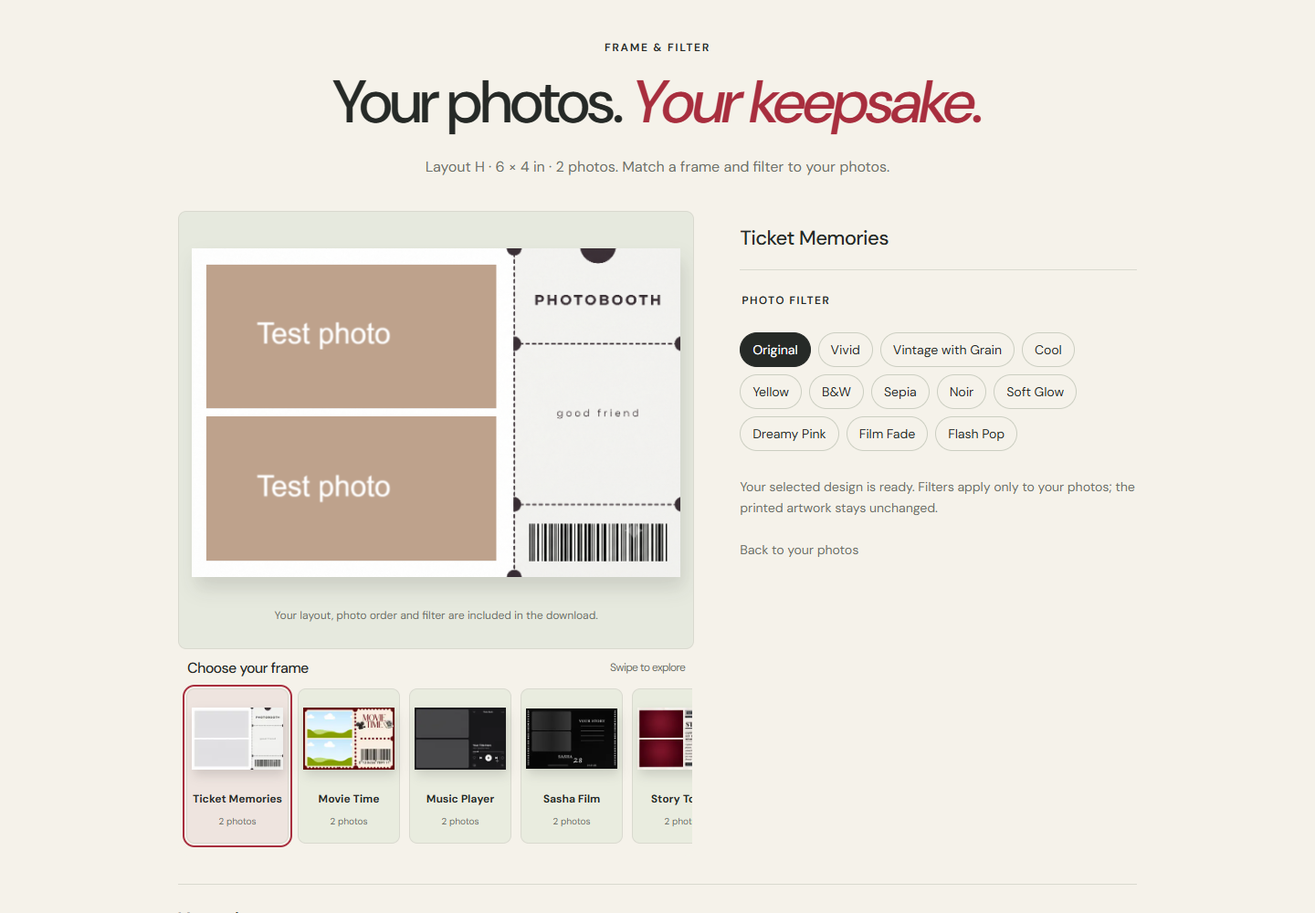
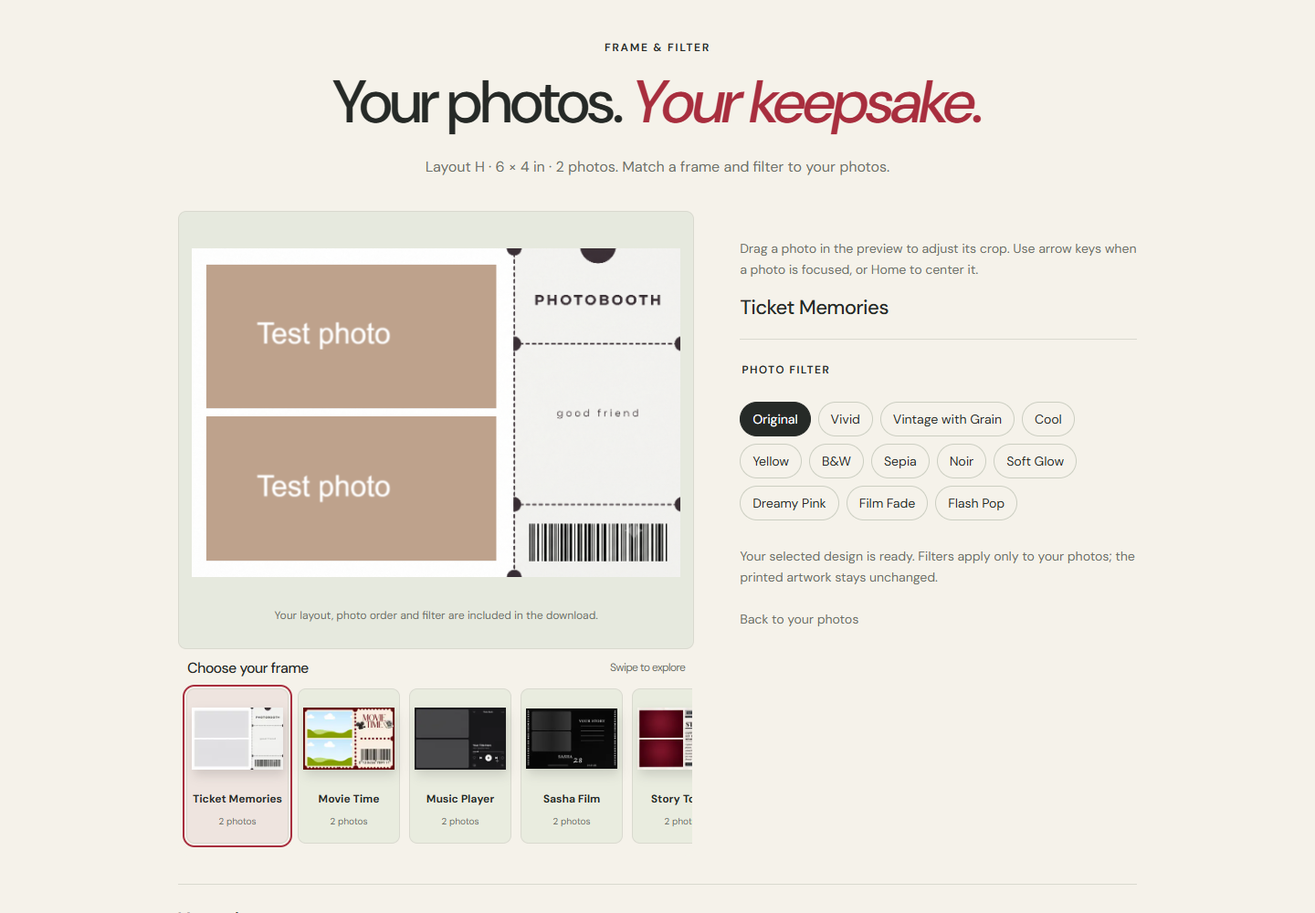
drag the photos feature

Changed region(s): [[0.5625, 0.248, 0.8438, 0.558], [0.5625, 0.589, 0.8438, 0.682]]

diff --git a/website/src/booth/Booth.tsx b/website/src/booth/Booth.tsx
@@ -23,6 +23,7 @@ import type { DuoEvent } from './useDuoPeer';
 import { useSessionCharge } from './useSessionCharge';
 import './journey.css';
 import { prefetchFrames } from './frameAssets';
+import { reconcileOffsets } from './photoPosition.js';
 
 const progress: [Step, string][] = [['mode', 'Solo or duo'], ['source', 'Photo source'], ['layout', 'Your layout'], ['session', 'Your photos'], ['design', 'Frame & filter'], ['export', 'Export & download']];
 
@@ -71,7 +72,7 @@ export function Booth({ active, invite, leaveGuard }: { active: boolean; invite:
   function clearPhotos() {
     editingGate.current?.cancel(); setConfirmation({open:false,busy:false,error:''}); setEditingApproved(false);
     charge.reset();
-    setCard(current => ({ ...current, shots: [] }));
+    setCard(current => ({ ...current, shots: [], offsets: [] }));
     setDuoUploads([]);
     setRetake(null); setRestoreCamera(false);
     document.getElementById('print-sheet')?.replaceChildren();
@@ -104,7 +105,7 @@ export function Booth({ active, invite, leaveGuard }: { active: boolean; invite:
   useEffect(() => { if (active) { setUseInvite(true); setStep(invite ? 'join' : 'mode'); if (invite) setMode('duo'); setRetake(null); setRestoreCamera(false); setInstructions(!invite); } else { setInstructions(false); party.end(); } }, [active, invite]);
   // A missed heartbeat must not unmount the camera or silently send one user back.
   useEffect(() => { if (active && !instructions) { screen.current?.querySelector('h1')?.focus({ preventScroll: true }); window.scrollTo(0, 0); } }, [step, active, instructions]);
-  const change = (patch: Partial<CardState>) => setCard(current => ({ ...current, ...patch }));
+  const change = (patch: Partial<CardState>) => setCard(current => ({ ...current, ...patch, ...(patch.shots ? { offsets: reconcileOffsets(current.shots, current.offsets, patch.shots) } : {}) }));
   async function reviewUploads(shots = card.shots) {
     if (await requestEditing()) { change({ shots }); setEditingApproved(true); setRetake(null); setStep('design'); }
   }
@@ -113,7 +114,7 @@ export function Booth({ active, invite, leaveGuard }: { active: boolean; invite:
       const count = layouts[card.layout].count;
       setDuoUploads(current => [...move(current.slice(0, count), from, to), ...move(current.slice(count), from, to)]);
     }
-    const apply = () => { setCard(current => ({ ...current, shots: move(current.shots, from, to) })); setRetake(null); };
+    const apply = () => { setCard(current => { const shots = move(current.shots, from, to); const offsets = move(current.shots.map((_, i) => current.offsets?.[i] || { x: .5, y: .5 }), from, to); return { ...current, shots, offsets }; }); setRetake(null); };
     if (party.room?.role === 'host' && source === 'camera') {
       void duoControl.current?.({ type: 'move', from, to }).then(apply).catch(() => setSharedError('Reconnect your cameras before changing the shared photo order.'));
     } else apply();
@@ -137,6 +138,15 @@ export function Booth({ active, invite, leaveGuard }: { active: boolean; invite:
     const joined = await party.join(code, useInvite ? invite : null);
     if (joined) { change({ layout: joined.settings.layout, template: null, shots: [] }); setSource(joined.settings.source); setMode('duo'); setStep('room'); }
   }
+  useEffect(() => {
+    if (!active || !invite) return;
+    let cancelled = false;
+    const timer = window.setTimeout(async () => {
+      const joined = await party.join('', invite);
+      if (joined && !cancelled) { change({ layout: joined.settings.layout, template: null, shots: [] }); setSource(joined.settings.source); setMode('duo'); setStep('room'); }
+    }, 0);
+    return () => { cancelled = true; window.clearTimeout(timer); };
+  }, [active, invite]);
   async function enterParty() {
     const state = await party.check();
     if (state?.bothReady) {
@@ -166,7 +176,7 @@ export function Booth({ active, invite, leaveGuard }: { active: boolean; invite:
         {active && step === 'layout' && <><LayoutScreen busy={party.busy || charge.busy} selected={card.layout} onSelect={layout => { if (layout !== card.layout) change({ layout, shots: [], template: null }); setRetake(null); }} onBack={() => setStep(mode === 'duo' && source === 'camera' ? 'duo' : 'source')} onNext={() => void startSession()} /><p className="room-error" role="alert">{party.error}</p></>}
         {active && step === 'source' && <SourceScreen mode={mode} onBack={() => setStep('mode')} onChoose={choice => { change({ shots: [], template: null }); setSource(choice); setRetake(null); setStep(mode === 'duo' && choice === 'camera' ? 'duo' : 'layout'); }} />}
         {active && (step === 'session' || ['design','export'].includes(step) && party.room && source === 'camera') && <div hidden={step !== 'session'}><SessionScreen room={party.room} visible={step === 'session'} duoControl={duoControl} onPartnerConnection={setPeerConnected} onPartnerExit={() => setExplicitDisconnect(true)} onSharedPhotos={shots => change({ shots })} onRemoteSession={index => { setRetake(index); setStep('session'); }} card={card} method={method} seconds={seconds} onMethod={setMethod} onSeconds={setSeconds} retake={retake} onRetake={setRetake} restoreCamera={restoreCamera} interrupted={instructions || !!pendingLeave || confirmation.open || disconnectOpen} flash={flash} flashColor={flashColor} onFlashChange={setFlash} onFlashColor={setFlashColor} mirror={mirror} onMirrorChange={setMirror}
-          beforeReview={requestEditing} onShot={(index, shot) => setCard(current => ({ ...current, shots: replaceShot(current.shots, index, shot) }))} onMove={reorder} onBack={() => goBack('layout')} onNext={wasCamera => { setRestoreCamera(wasCamera); setRetake(null); setEditingApproved(true); setStep('design'); }} /></div>}
+          beforeReview={requestEditing} onShot={(index, shot) => setCard(current => ({ ...current, shots: replaceShot(current.shots, index, shot), offsets: reconcileOffsets(current.shots, current.offsets, replaceShot(current.shots, index, shot)) }))} onMove={reorder} onBack={() => goBack('layout')} onNext={wasCamera => { setRestoreCamera(wasCamera); setRetake(null); setEditingApproved(true); setStep('design'); }} /></div>}
         {active && step === 'upload' && mode === 'solo' && <UploadScreen card={card} replacement={retake} onPhotos={shots => { change({ shots }); setRetake(null); }} onMove={reorder} onBack={() => goBack('layout')} onNext={() => void reviewUploads()} />}
         {active && step === 'upload' && mode === 'duo' && <DuoUploadScreen card={card} photos={duoUploads} onPhotos={setDuoUploads} onBack={() => goBack('layout')} onNext={shots => void reviewUploads(shots)} />}
         {active && editingApproved && (step === 'design' || step === 'export') && <><EditScreen stage={step} onContinue={() => setStep('export')} photosLocked={party.room?.role === 'guest' && source === 'camera'} source={source} card={card} onChange={change} onMove={reorder} onRetake={index => { void retakeFromEdit(index); }} onBack={() => void retakeFromEdit(null)} onDesign={() => setStep('design')} /><p className="room-error" role="alert">{sharedError}</p></>}

diff --git a/website/src/booth/EditScreen.tsx b/website/src/booth/EditScreen.tsx
@@ -8,6 +8,7 @@ import { Heading } from './shared';
 import type { CardState } from './types';
 import { DesignScreen } from './DesignScreen';
 import { musicTitles } from './musicTitle.js';
+import { PhotoPan } from './PhotoPan';
 
 interface Props {
   photosLocked?: boolean;
@@ -19,6 +20,7 @@ interface Props {
 }
 export function EditScreen({ card, onChange, onMove, onRetake, onBack, onDesign, onContinue, stage, source = 'camera', photosLocked = false }: Props) {
   const [preview, setPreview] = useState('');
+  const [renderedFrame,setRenderedFrame] = useState('');
   const [previewStatus, setPreviewStatus] = useState('Preparing your photocard…');
   const [previewError, setPreviewError] = useState(false), [retry, setRetry] = useState(0);
   const [format, setFormat] = useState('png'), [status, setStatus] = useState('');
@@ -39,9 +41,9 @@ export function EditScreen({ card, onChange, onMove, onRetake, onBack, onDesign,
     const timer = window.setTimeout(async () => {
       try {
         const canvas = await renderCard({ ...card, preview: true });
-        if (!cancelled) { setPreview(canvas.toDataURL('image/png')); setPreviewStatus('Your layout, photo order and filter are included in the download.'); }
+        if (!cancelled) { setPreview(canvas.toDataURL('image/png')); setRenderedFrame(`${card.layout}:${card.template}`); setPreviewStatus('Your layout, photo order and filter are included in the download.'); }
       } catch { if (!cancelled) { setPreviewError(true); setPreviewStatus('This frame couldn’t load. Retry or choose another frame.'); } }
-    }, 30);
+    }, 0);
     return () => { cancelled = true; clearTimeout(timer); };
   }, [card, retry]);
 
@@ -71,13 +73,13 @@ export function EditScreen({ card, onChange, onMove, onRetake, onBack, onDesign,
     finally { exportLock.current = false; if (alive.current) setExporting(false); }
   }
   return <><Heading eyebrow={stage === 'design' ? 'FRAME & FILTER' : 'YOUR FINISHED MOMENTS'} title={<>Your photos. <em>Your keepsake.</em></>} note={`${layout.name} · ${layout.note}. ${stage === 'design' ? 'Match a frame and filter to your photos.' : 'Ready to download or print.'}`} />
-    <div className={`finish-grid ${stage === 'export' ? 'export-preview-grid' : 'customization-grid'}`}><div className="preview-workspace"><div className="final-preview">{preview ? <img id="card-preview" src={preview} alt="Your photocard preview" /> : <span className="preview-placeholder">Preparing your photos…</span>}<p id="preview-status" role="status">{previewStatus}</p>{previewError && <button className="text-button" onClick={() => setRetry(value => value + 1)}>Retry frame</button>}</div>
+    <div className={`finish-grid ${stage === 'export' ? 'export-preview-grid' : 'customization-grid'}`}><div className="preview-workspace"><div className="final-preview">{preview ? <div className="pan-surface"><img id="card-preview" src={preview} alt="Your photocard preview" draggable={false} />{stage === 'design' && renderedFrame === `${card.layout}:${card.template}` && <PhotoPan card={card} onChange={onChange} />}</div> : <span className="preview-placeholder">Preparing your photos…</span>}<p id="preview-status" role="status">{previewStatus}</p>{previewError && <button className="text-button" onClick={() => setRetry(value => value + 1)}>Retry frame</button>}</div>
     {stage === 'design' && <section className="editing-designs" aria-label="Frame selection"><h2>Choose your frame <small>Swipe to explore</small></h2><DesignScreen embedded card={card} onSelect={template => onChange({template})} onBack={onBack} onNext={onContinue} /></section>}</div>
-      <div className="finish-controls" hidden={stage === 'export'}><div className="chosen-design-note"><strong>{card.template ? cardDesigns[card.template].name : 'Classic'}</strong></div>
+      <div className="finish-controls" hidden={stage === 'export'}><p className="session-note">Drag a photo in the preview to adjust its crop. Use arrow keys when a photo is focused, or Home to center it.</p><div className="chosen-design-note"><strong>{card.template ? cardDesigns[card.template].name : 'Classic'}</strong></div>
         {!card.template && <fieldset disabled={exporting}><legend>FRAME COLOR</legend><div className="swatches">{Object.entries(colors).map(([key, color]) => <button key={key} className={`swatch ${card.color === key ? 'active' : ''}`} aria-label={key} aria-pressed={card.color === key} style={{ '--swatch': color[0] } as CSSProperties} onClick={() => onChange({ color: key })} />)}</div></fieldset>}
         <fieldset disabled={exporting}><legend>PHOTO FILTER</legend><div className="filter-options">{Object.entries(filters).map(([key, name]) => <button key={key} className={`filter ${card.filter === key ? 'active' : ''}`} aria-pressed={card.filter === key} onClick={() => onChange({ filter: key })}>{name}</button>)}</div></fieldset>
         {!card.template && <><label className="caption-label" htmlFor="card-caption">A FEW WORDS TO KEEP</label><input id="card-caption" maxLength={28} value={card.caption} disabled={exporting} onChange={e => onChange({ caption: e.target.value })} /></>}
-        {card.template && card.template in musicTitles && <><label className="caption-label" htmlFor="track-title">SONG / TRACK TITLE</label><input id="track-title" maxLength={60} placeholder="Our little moment" value={card.trackTitle || ''} disabled={exporting} onChange={e => onChange({ trackTitle: e.target.value })} /><p className="session-note">Up to 60 characters. The title fits automatically.</p></>}
+        {card.template && card.template in musicTitles && <><label className="caption-label" htmlFor="track-title">SONG / TRACK TITLE</label><input id="track-title" maxLength={60} placeholder="Our little moment" value={card.trackTitle || ''} disabled={exporting} onChange={e => onChange({ trackTitle: e.target.value })} /><label className="caption-label" htmlFor="track-subtitle">ARTIST / SUBTITLE</label><input id="track-subtitle" maxLength={60} placeholder="Together" value={card.trackSubtitle || ''} disabled={exporting} onChange={e => onChange({ trackSubtitle: e.target.value })} /><p className="session-note">Up to 60 characters each. Text fits automatically.</p></>}
         <p className="session-note">{card.template ? 'Your selected design is ready. Filters apply only to your photos; the printed artwork stays unchanged.' : 'Filters apply to the photos. Your original captures stay unchanged.'}</p><button className="text-button" disabled={exporting || photosLocked} onClick={onBack}>Back to your photos</button>
       </div>
     </div>{stage === 'design' && <>{photosLocked && <p className="session-note">Your creator can reorder or retake your shared photos. You can choose your own frame and filter.</p>}<PhotoTray actionLabel={source === 'upload' ? 'Replace' : 'Retake'} shots={card.shots} count={layout.count} retake={null} disabled={exporting || photosLocked} onMove={onMove} onRetake={onRetake} /><div className="step-actions"><button className="primary" onClick={onContinue}>Continue to export</button></div></>}

diff --git a/website/src/booth/renderCard.js b/website/src/booth/renderCard.js
@@ -2,8 +2,9 @@ import { layouts,filterPixels } from './core.js';
 import { cardDesigns,colors } from './designs.ts';
 import { loadFrame } from './frameAssets.ts';
 import { drawMusicTitle, musicTitles } from './musicTitle.js';
+import { coverCrop } from './photoPosition.js';
   const loadImage=src=>new Promise((resolve,reject)=>{const img=new Image();img.onload=()=>resolve(img);img.onerror=reject;img.src=src});
-  function cover(ctx,img,x,y,w,h){const iw=img.videoWidth||img.naturalWidth,ih=img.videoHeight||img.naturalHeight;const scale=Math.max(w/iw,h/ih);ctx.drawImage(img,(iw-w/scale)/2,(ih-h/scale)/2,w/scale,h/scale,x,y,w,h)}
+  function cover(ctx,img,x,y,w,h,offset){const crop=coverCrop(img.videoWidth||img.naturalWidth,img.videoHeight||img.naturalHeight,w,h,offset);ctx.drawImage(img,crop.x,crop.y,crop.w,crop.h,x,y,w,h)}
   export function cardDimensions(state) {
     const l = layouts[state.layout], d = state.template && cardDesigns[state.template];
     if (!d) return { width: l.width, height: l.height };
@@ -16,16 +17,16 @@ import { drawMusicTitle, musicTitles } from './musicTitle.js';
     const [cx,cy,cw,ch]=d.crop,scale=cardDimensions(snapshot).width/cw,ox=0,oy=0;
     const canvas=document.createElement('canvas');canvas.width=cardDimensions(snapshot).width;canvas.height=cardDimensions(snapshot).height;const ctx=canvas.getContext('2d');
     ctx.fillStyle='#fff';ctx.fillRect(0,0,canvas.width,canvas.height);ctx.drawImage(art,cx,cy,cw,ch,0,0,canvas.width,canvas.height);
-    images.forEach((img,i)=>{if(!img)return;const r=d.slots[i],w=Math.round(r.w*scale),h=Math.round(r.h*scale),photo=document.createElement('canvas');photo.width=w;photo.height=h;const pc=photo.getContext('2d',{willReadFrequently:true});cover(pc,img,0,0,w,h);
+    images.forEach((img,i)=>{if(!img)return;const r=d.slots[i],w=Math.round(r.w*scale),h=Math.round(r.h*scale),photo=document.createElement('canvas');photo.width=w;photo.height=h;const pc=photo.getContext('2d',{willReadFrequently:true});cover(pc,img,0,0,w,h,snapshot.offsets?.[i]);
       if(snapshot.filter!=='original'){const pixels=pc.getImageData(0,0,w,h);filterPixels(pixels.data,snapshot.filter,17+i);pc.putImageData(pixels,0,0)}
       if(d.mask==='cream'){const mask=document.createElement('canvas');mask.width=w;mask.height=h;const mc=mask.getContext('2d',{willReadFrequently:true});mc.drawImage(art,r.x,r.y,r.w,r.h,0,0,w,h);const mp=mc.getImageData(0,0,w,h);for(let p=0;p<mp.data.length;p+=4)mp.data[p+3]=(mp.data[p]>215&&mp.data[p+1]>205&&mp.data[p+2]>175)?255:0;mc.putImageData(mp,0,0);pc.globalCompositeOperation='destination-in';pc.drawImage(mask,0,0)}
       const x=ox+(r.x-cx)*scale,y=oy+(r.y-cy)*scale;ctx.save();if(r.rotation){const [angle,rx,ry]=r.rotation;const tx=(rx-cx)*scale,ty=(ry-cy)*scale;ctx.translate(tx,ty);ctx.rotate(angle*Math.PI/180);ctx.translate(-tx,-ty)}ctx.beginPath();if(r.poly){r.poly.forEach(([px,py],n)=>{const dx=ox+(px-cx)*scale,dy=oy+(py-cy)*scale;n?ctx.lineTo(dx,dy):ctx.moveTo(dx,dy)});ctx.closePath()}else ctx.roundRect(x,y,w,h,(r.r||0)*scale);ctx.clip();ctx.drawImage(photo,x,y,w,h);ctx.restore();
     });
-    if(musicTitles[snapshot.template]) { await document.fonts.ready; drawMusicTitle(ctx,art,d,snapshot.template,snapshot.trackTitle,scale); }
+    if(musicTitles[snapshot.template]) { await document.fonts.ready; drawMusicTitle(ctx,art,d,snapshot.template,snapshot.trackTitle,scale,snapshot.trackSubtitle); }
     return canvas;
   }
   async function renderCard(state){if(state.template)return renderDesignedCard(state);const snapshot={...state,shots:[...state.shots]},l=layouts[snapshot.layout],canvas=document.createElement('canvas');canvas.width=l.width;canvas.height=l.height;const ctx=canvas.getContext('2d'),[bg,fg]=colors[snapshot.color];const images=await Promise.all(snapshot.shots.map(loadImage));await document.fonts.ready;ctx.fillStyle=bg;ctx.fillRect(0,0,l.width,l.height);
-    images.forEach((img,i)=>{const r=l.slots[i],x=Math.round(r.x*l.width),y=Math.round(r.y*l.height),w=Math.round(r.w*l.width),h=Math.round(r.h*l.height);const photo=document.createElement('canvas');photo.width=w;photo.height=h;const pc=photo.getContext('2d',{willReadFrequently:true});cover(pc,img,0,0,w,h);if(snapshot.filter!=='original'){const pixels=pc.getImageData(0,0,w,h);filterPixels(pixels.data,snapshot.filter,17+i);pc.putImageData(pixels,0,0)}ctx.drawImage(photo,x,y);if(snapshot.design==='outline'){ctx.strokeStyle=fg;ctx.lineWidth=2;ctx.strokeRect(x+5,y+5,w-10,h-10)}});
+    images.forEach((img,i)=>{const r=l.slots[i],x=Math.round(r.x*l.width),y=Math.round(r.y*l.height),w=Math.round(r.w*l.width),h=Math.round(r.h*l.height);const photo=document.createElement('canvas');photo.width=w;photo.height=h;const pc=photo.getContext('2d',{willReadFrequently:true});cover(pc,img,0,0,w,h,snapshot.offsets?.[i]);if(snapshot.filter!=='original'){const pixels=pc.getImageData(0,0,w,h);filterPixels(pixels.data,snapshot.filter,17+i);pc.putImageData(pixels,0,0)}ctx.drawImage(photo,x,y);if(snapshot.design==='outline'){ctx.strokeStyle=fg;ctx.lineWidth=2;ctx.strokeRect(x+5,y+5,w-10,h-10)}});
     const a=l.caption,cx=(a.x+a.w/2)*l.width,cy=(a.y+a.h/2)*l.height,available=a.w*l.width-18;ctx.fillStyle=fg;ctx.textAlign='center';let size=Math.min(66,a.h*l.height*.33);ctx.font=`italic ${size}px "DM Sans", sans-serif`;while(ctx.measureText(snapshot.caption).width>available&&size>12){ctx.font=`italic ${--size}px "DM Sans", sans-serif`}ctx.fillText(snapshot.caption,cx,cy+size*.12);if(a.h*l.height>130){ctx.font=`500 ${Math.min(20,a.w*l.width/23)}px "DM Sans", sans-serif`;ctx.fillText('T O G E T H E R',cx,cy+size*.9+16)}if(snapshot.design==='hearts'){ctx.font=`${Math.min(30,a.h*l.height*.18)}px "DM Sans", sans-serif`;ctx.fillText('♡',cx,cy-size*.7)}return canvas;
   }
 

diff --git a/website/src/booth/PhotoPan.tsx b/website/src/booth/PhotoPan.tsx
@@ -1,0 +1,40 @@
+import { useEffect, useRef, useState } from 'react';
+import type { PointerEvent } from 'react';
+import type { CardState } from './types';
+import { cardDesigns } from './designs';
+import type { CardDesign } from './designs';
+import { layouts } from './core';
+import { panOffset, clampOffset } from './photoPosition.js';
+
+export function PhotoPan({card,onChange}:{card:CardState;onChange:(patch:Partial<CardState>)=>void}) {
+  const [sizes,setSizes]=useState<{w:number;h:number}[]>([]);
+  const drag=useRef<{id:number;index:number;x:number;y:number;offset:{x:number;y:number};matrix:DOMMatrix}|null>(null);
+  const design=card.template ? cardDesigns[card.template] : null, layout=layouts[card.layout];
+  const [cx,cy,w,h]=design?.crop || [0,0,layout.width,layout.height];
+  const slots: CardDesign['slots']=design?.slots || layout.slots.map(r=>({x:r.x*w,y:r.y*h,w:r.w*w,h:r.h*h,r:0}));
+  useEffect(()=>{let cancelled=false;setSizes([]);drag.current=null;Promise.all(card.shots.map(src=>new Promise<{w:number;h:number}>(resolve=>{const img=new Image();img.onload=()=>resolve({w:img.naturalWidth,h:img.naturalHeight});img.onerror=()=>resolve({w:0,h:0});img.src=src;}))).then(result=>{if(!cancelled)setSizes(result);});return()=>{cancelled=true;};},[card.shots]);
+  useEffect(()=>{drag.current=null;},[card.template]);
+  function update(index:number,offset:{x:number;y:number}) {const offsets=card.shots.map((_,i)=>card.offsets?.[i]||{x:.5,y:.5});offsets[index]=offset;onChange({offsets});}
+  function start(e:PointerEvent<SVGPathElement>,index:number){
+    if(e.button!==0 || !sizes[index]?.w)return;
+    const matrix=e.currentTarget.getScreenCTM()?.inverse();if(!matrix)return;
+    e.preventDefault();e.currentTarget.focus({preventScroll:true});e.currentTarget.setPointerCapture(e.pointerId);
+    const p=new DOMPoint(e.clientX,e.clientY).matrixTransform(matrix);
+    drag.current={id:e.pointerId,index,x:p.x,y:p.y,matrix,offset:card.offsets?.[index]||{x:.5,y:.5}};
+  }
+  function move(e:PointerEvent<SVGPathElement>){const d=drag.current;if(!d||d.id!==e.pointerId)return;const p=new DOMPoint(e.clientX,e.clientY).matrixTransform(d.matrix),s=slots[d.index],size=sizes[d.index];update(d.index,panOffset(d.offset,p.x-d.x,p.y-d.y,size.w,size.h,s.w,s.h));}
+  return <svg className="photo-pan" viewBox={`${cx} ${cy} ${w} ${h}`} aria-label="Reposition photos" preserveAspectRatio="xMidYMid meet">
+    {slots.map((slot,i)=>{
+      const path=slot.poly ? `M${slot.poly.map(p=>p.join(' ')).join(' L')}Z` : `M${slot.x} ${slot.y}h${slot.w}v${slot.h}h${-slot.w}Z`;
+      return <path key={i} d={path} transform={slot.rotation ? `rotate(${slot.rotation.join(' ')})` : undefined} tabIndex={0} role="button" aria-label={`Reposition photo ${i+1}. Drag or use arrow keys. Home centers the photo.`}
+        onPointerDown={e=>start(e,i)} onPointerMove={move} onPointerUp={()=>{drag.current=null;}} onPointerCancel={()=>{drag.current=null;}} onLostPointerCapture={()=>{drag.current=null;}}
+        onKeyDown={e=>{
+          const offset=card.offsets?.[i]||{x:.5,y:.5};
+          if(e.key==='Home'){e.preventDefault();update(i,{x:.5,y:.5});}
+          else if(['ArrowLeft','ArrowRight','ArrowUp','ArrowDown'].includes(e.key)){
+            e.preventDefault();update(i,{x:clampOffset(offset.x+(e.key==='ArrowLeft' ? .05 : e.key==='ArrowRight' ? -.05 : 0)),y:clampOffset(offset.y+(e.key==='ArrowUp' ? .05 : e.key==='ArrowDown' ? -.05 : 0))});
+          }
+        }} />;
+    })}
+  </svg>;
+}

diff --git a/website/src/App.tsx b/website/src/App.tsx
@@ -6,14 +6,17 @@ import { SignInDialog } from './components/SignInDialog';
 import { Home } from './pages/Home';
 import { About } from './pages/About';
 import { Booth } from './booth/Booth';
+import { rememberBoothReturn, consumeBoothReturn } from './auth/inviteReturn.js';
 
 export function App() {
-  const { user, loading } = useAuth();
+  const { user, loading, recovery, error: authError } = useAuth();
   const [hash, setHash] = useState(window.location.hash);
   const leaveGuard = useRef<(proceed: () => void) => void>(proceed => proceed());
   const currentHash = useRef(window.location.hash);
   const isBooth = hash === '#booth' || hash.startsWith('#booth?'), isAbout = hash === '#about', isAccount = ['#account', '#account/buy', '#account/admin'].includes(hash);
   const invite = isBooth ? new URLSearchParams(hash.split('?')[1] || '').get('invite') : null;
+  useEffect(() => { if(!loading && !user && isBooth) rememberBoothReturn(hash); }, [loading,user,isBooth,hash]);
+  useEffect(() => { if(!loading && user && !recovery && !authError && isAccount) { const target=consumeBoothReturn(); if(target) window.location.hash=target; } }, [loading,user,recovery,authError,isAccount]);
   useEffect(() => {
     const navigate = () => {
       const next = window.location.hash;
@@ -46,8 +49,8 @@ export function App() {
       {isAbout && <About />}
       {loading && isBooth && <p role="status">Checking your account…</p>}
       {!loading && user && <Booth key={user.id} active={isBooth} invite={invite} leaveGuard={leaveGuard} />}
-      {!loading && !user && isBooth && <SignInDialog onDismiss={() => { window.location.hash = ''; }} onSignIn={() => {
-        try { sessionStorage.setItem('together-after-signin', hash); } catch { /* Sign-in still works without storage. */ }
+      {!loading && !user && isBooth && <SignInDialog onDismiss={() => { consumeBoothReturn(); window.location.hash = ''; }} onSignIn={() => {
+        rememberBoothReturn(hash);
       }} />}
     </main>
   </>;

diff --git a/website/src/booth/musicTitle.js b/website/src/booth/musicTitle.js
@@ -11,7 +11,7 @@ export const musicTitles = {
 export function trackTitle(value) {
   return Array.from((value || '').trim()).slice(0, 60).join('') || 'Our little moment';
 }
-export function drawMusicTitle(ctx, art, design, key, value, scale) {
+export function drawMusicTitle(ctx, art, design, key, value, scale, subtitle) {
   const region = musicTitles[key];
   if (!region) return;
   const { x, y, w, h } = region, [cx, cy] = design.crop;
@@ -27,5 +27,15 @@ export function drawMusicTitle(ctx, art, design, key, value, scale) {
   ctx.font = `700 ${size}px "DM Sans", sans-serif`;
   while (ctx.measureText(title).width > w && size > 16) ctx.font = `700 ${--size}px "DM Sans", sans-serif`;
   ctx.fillText(title, x, y + h / 2, w);
+  const raster = ['music-player-c','music-player-e','music-player-k'].includes(key);
+  const sy = key === 'music-player-k' ? 1080 : raster ? 2012 : key === 'music-player-g' ? 806 : 1320;
+  const sh = raster ? 64 : 42;
+  ctx.drawImage(art, x, sy + sh + 4, w, 2, x, sy, w, sh);
+  ctx.fillStyle = '#999';
+  const artist = Array.from((subtitle || '').trim()).slice(0,60).join('') || 'Together';
+  size = Math.round(region.size * .7);
+  ctx.font = `400 ${size}px "DM Sans", sans-serif`;
+  while(ctx.measureText(artist).width > w && size > 12) ctx.font = `400 ${--size}px "DM Sans", sans-serif`;
+  ctx.fillText(artist, x, sy + sh / 2, w);
   ctx.restore();
 }

diff --git a/website/src/auth/Account.tsx b/website/src/auth/Account.tsx
@@ -7,6 +7,7 @@ import { authErrorMessage } from './errors';
 import { Wallet } from './Wallet';
 import { GoogleAccount } from './GoogleAccount';
 import { Captcha, captchaKey } from './Captcha';
+import { readBoothReturn } from './inviteReturn.js';
 const emailFlows = (import.meta as ImportMeta & { env: Record<string,string> }).env.VITE_AUTH_EMAIL_FLOWS_ENABLED === 'true';
 type Mode = 'signin' | 'signup' | 'reset';
 export function Account({ page = 'overview' }: { page?: 'overview' | 'buy' | 'admin' }) {
@@ -51,11 +52,7 @@ export function Account({ page = 'overview' }: { page?: 'overview' | 'buy' | 'ad
   }
   const update = recovery && Boolean(user);
   if (user && !update) return <GoogleAccount page={page} />;
-  let returnTo = '#booth';
-  try {
-    const saved = sessionStorage.getItem('together-after-signin');
-    if (saved === '#booth' || saved?.startsWith('#booth?')) returnTo = saved;
-  } catch { /* Default to a new booth if storage is unavailable. */ }
+  const returnTo = readBoothReturn() || '#booth';
   return <section className="account-page" aria-labelledby="account-title">
     <div className="eyebrow">YOUR LITTLE PLACE AT TOGETHER</div>
     <h1 id="account-title">{update ? 'A fresh password.' : user ? 'Welcome back.' : mode === 'signup' ? 'Make yourself at home.' : mode === 'reset' ? 'Let’s get you back in.' : 'A little closer.'}</h1>

diff --git a/website/src/auth/GoogleAccount.tsx b/website/src/auth/GoogleAccount.tsx
@@ -3,6 +3,7 @@ import { useAuth } from './AuthProvider';
 import { authRedirect, googleAvailable, supabase } from './client';
 import { Wallet } from './Wallet';
 import './account.css';
+import { readBoothReturn } from './inviteReturn.js';
 
 // Google-only test phase. Account.tsx retains the email flows for later use.
 export function GoogleAccount({ page = 'overview' }: { page?: 'overview' | 'buy' | 'admin' }) {
@@ -33,11 +34,7 @@ export function GoogleAccount({ page = 'overview' }: { page?: 'overview' | 'buy'
       setError('Google sign-in could not start. Please try again.');
     } finally { lock.current = false; setBusy(false); }
   }
-  let returnTo = '#booth';
-  try {
-    const saved = sessionStorage.getItem('together-after-signin');
-    if (saved === '#booth' || saved?.startsWith('#booth?')) returnTo = saved;
-  } catch { /* Continue without the optional invitation hint. */ }
+  const returnTo = readBoothReturn() || '#booth';
   return <section className={`account-page ${user ? 'account-workspace' : ''}`} aria-labelledby="account-title">
     <div className="eyebrow">YOUR LITTLE PLACE AT TOGETHER</div>
     <h1 id="account-title">{user ? page === 'buy' ? 'More moments await.' : page === 'admin' ? 'Payment reviews.' : 'Your little moments.' : 'A little closer.'}</h1>

diff --git a/website/src/auth/inviteReturn.js b/website/src/auth/inviteReturn.js
@@ -1,0 +1,19 @@
+const KEY = 'together-after-signin';
+const TTL = 60 * 60 * 1000;
+export function safeBoothReturn(value) {
+  if(value === '#booth') return value;
+  if(typeof value !== 'string' || !value.startsWith('#booth?')) return null;
+  const params = new URLSearchParams(value.slice(7)), invite = params.get('invite');
+  if(!invite || invite.length > 1024 || /[\s\x00-\x1f]/.test(invite)) return null;
+  return `#booth?invite=${encodeURIComponent(invite)}`;
+}
+export function rememberBoothReturn(value, storage = sessionStorage, now = Date.now()) {
+  const target = safeBoothReturn(value);if(!target)return;
+  try {storage.setItem(KEY,JSON.stringify({target,expires:now+TTL}));} catch { /* Storage may be unavailable. */ }
+}
+export function readBoothReturn(storage = sessionStorage, now = Date.now()) {
+  try {const raw=storage.getItem(KEY);if(!raw)return null;const saved=JSON.parse(raw);return saved.expires>now ? safeBoothReturn(saved.target) : null;}catch{return null;}
+}
+export function consumeBoothReturn(storage = sessionStorage, now = Date.now()) {
+  const target=readBoothReturn(storage,now);try{storage.removeItem(KEY);}catch{}return target;
+}

diff --git a/website/src/booth/photoPosition.js b/website/src/booth/photoPosition.js
@@ -1,0 +1,18 @@
+export const clampOffset = value => Number.isFinite(value) ? Math.max(0, Math.min(1, value)) : .5;
+export function coverCrop(iw, ih, w, h, offset = {}) {
+  const scale = Math.max(w / iw, h / ih), sw = Math.min(iw, w / scale), sh = Math.min(ih, h / scale);
+  return { x: (iw - sw) * clampOffset(offset.x), y: (ih - sh) * clampOffset(offset.y), w: sw, h: sh, scale };
+}
+export function panOffset(offset, dx, dy, iw, ih, w, h) {
+  const { scale } = coverCrop(iw, ih, w, h);
+  const extraX = iw * scale - w, extraY = ih * scale - h;
+  return { x: extraX > .001 ? clampOffset(clampOffset(offset?.x) - dx / extraX) : clampOffset(offset?.x), y: extraY > .001 ? clampOffset(clampOffset(offset?.y) - dy / extraY) : clampOffset(offset?.y) };
+}
+export function reconcileOffsets(oldShots, offsets = [], newShots) {
+  const used = new Set();
+  return newShots.map(shot => {
+    const index = oldShots.findIndex((old, i) => old === shot && !used.has(i));
+    if (index < 0) return { x: .5, y: .5 };
+    used.add(index); return offsets[index] || { x: .5, y: .5 };
+  });
+}

diff --git a/website/src/booth/journey.css b/website/src/booth/journey.css
@@ -2,6 +2,14 @@
 .booth-dialog-copy p{margin:0}
 .export-preview-grid{grid-template-columns:minmax(0,1fr);max-width:740px}
 .preview-workspace{min-width:0}
+.pan-surface{position:relative;width:100%;height:480px;min-height:0}
+.pan-surface>img{width:100%;height:100%;object-fit:contain;display:block;user-select:none}
+.photo-pan{position:absolute;inset:0;width:100%;height:100%;pointer-events:none}
+.photo-pan path{fill:transparent;pointer-events:all;touch-action:none;cursor:grab;outline:none}
+.photo-pan path:active{cursor:grabbing}
+.photo-pan path:focus-visible{stroke:var(--red);stroke-width:3;vector-effect:non-scaling-stroke}
+.customization-grid .pan-surface{height:calc(100% - 42px)}
+.finish-controls .caption-label{display:block;margin:14px 0 8px}
 .customization-grid{align-items:start}
 .customization-grid .preview-workspace{position:sticky;top:12px;z-index:5;background:var(--paper,#f6f2eb);border-radius:12px;overflow-anchor:none}
 .customization-grid .final-preview{height:clamp(230px,48dvh,480px);min-height:0;padding:14px;overflow:hidden}

diff --git a/website/src/components/SignInDialog.tsx b/website/src/components/SignInDialog.tsx
@@ -10,7 +10,7 @@ export function SignInDialog({ onDismiss, onSignIn }: { onDismiss: () => void; o
     <button className="dialog-close" aria-label="Back to home" onClick={onDismiss}>×</button>
     <div className="eyebrow">A LITTLE HELLO FIRST</div>
     <h2 id="signin-required-title">Your memories.<br /><em>Your little account.</em></h2>
-    <p id="signin-required-description">Please sign in with Google before entering the photobooth. New here? Your account is created when you continue with Google.</p>
+    <p id="signin-required-description">Please sign in before entering the photobooth. Your invitation will be waiting when you return.</p>
     <div className="leave-actions"><a className="primary" href="#account" onClick={onSignIn}>Sign in or create account</a><button className="outline-button" onClick={onDismiss}>Back to home</button></div>
   </dialog>;
 }
